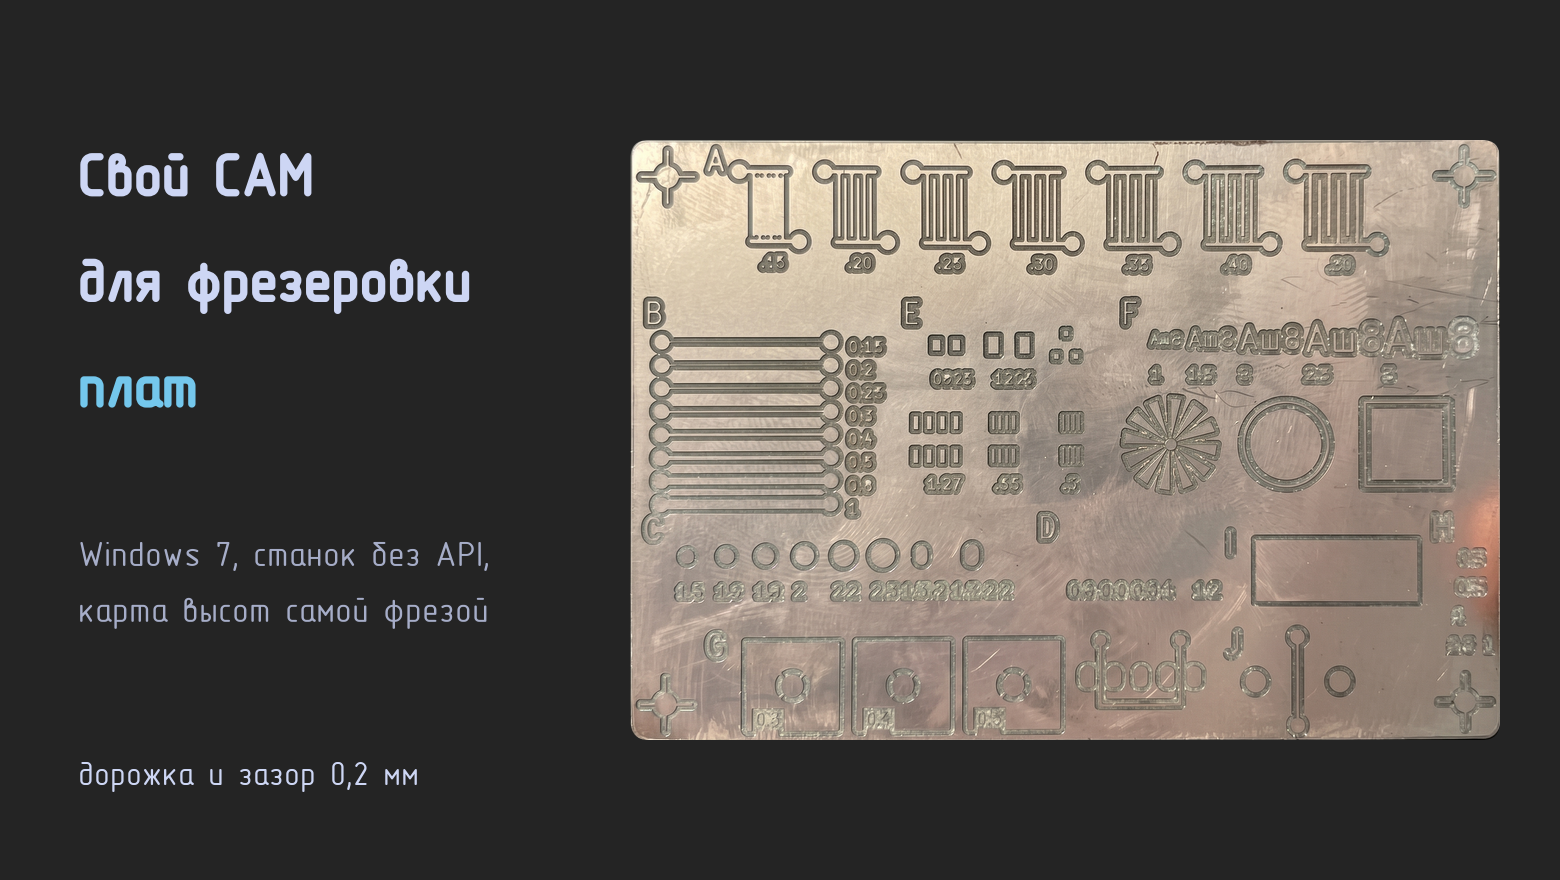
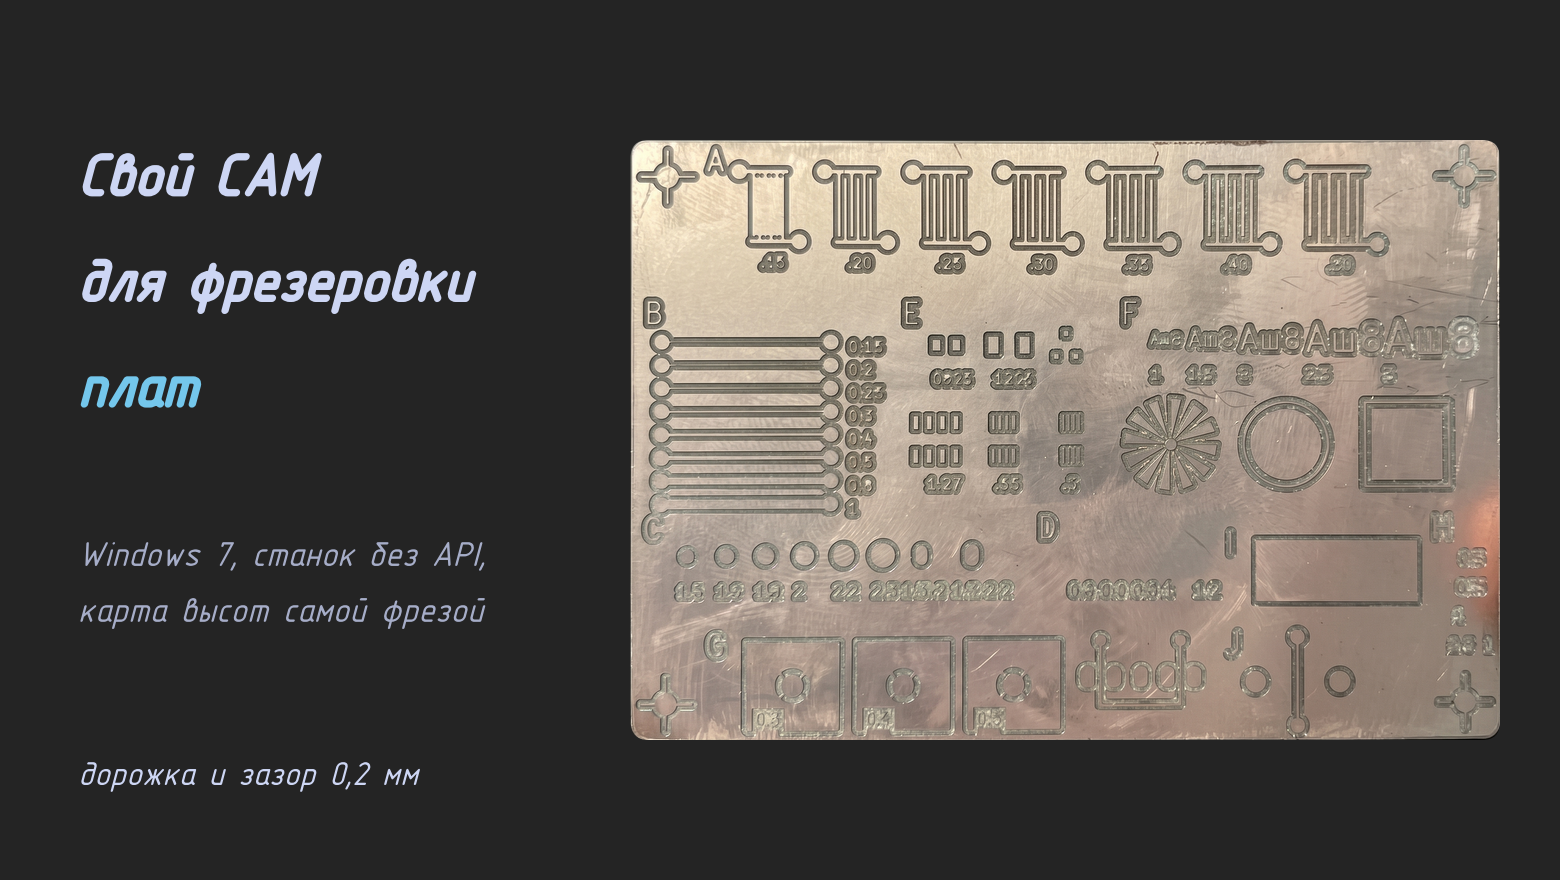
Статья: наклонный шрифт на рисунках, 15° по ГОСТ 2.304

diff --git a/docs/article/figures.py b/docs/article/figures.py
@@ -32,6 +32,8 @@ from matplotlib import font_manager, rcParams
 from matplotlib import patheffects
 from matplotlib.colors import LinearSegmentedColormap
 from matplotlib.patches import FancyBboxPatch
+from matplotlib.text import Text
+from matplotlib.transforms import Affine2D
 
 HERE = Path(__file__).resolve().parent
 OUT = HERE / "img"
@@ -105,6 +107,30 @@ def bold(color: str, width: float = 1.0):
     return [patheffects.withStroke(linewidth=width, foreground=color)]
 
 
+class Slanted(patheffects.AbstractPathEffect):
+    """Draw a text effect with its glyphs leaned forward: GOST Type BU has no italic face."""
+
+    def __init__(self, inner, deg: float):
+        super().__init__()
+        self.inner, self.deg = inner, deg
+
+    def draw_path(self, renderer, gc, tpath, affine, rgbFace=None):
+        self.inner.draw_path(renderer, gc, tpath, Affine2D().skew_deg(self.deg, 0) + affine, rgbFace)
+
+
+# ГОСТ 2.304: the slanted type leans at 75 degrees to the line.
+SLANT = 15
+
+
+def slant(fig):
+    """Lean every text of the figure; lines and pictures stay upright."""
+    for t in fig.findobj(Text):
+        if t.get_text() == "●":
+            continue
+        effects = t.get_path_effects() or [patheffects.Normal()]
+        t.set_path_effects([Slanted(e, SLANT) for e in effects])
+
+
 def card(height: float, title: str, subtitle: str, legend=()):
     fig = plt.figure(figsize=(W, height), facecolor=C["card"])
     top = 1 - 0.42 / height
@@ -144,6 +170,7 @@ def bare(ax):
 
 def save(fig, name: str):
     OUT.mkdir(exist_ok=True)
+    slant(fig)
     fig.savefig(OUT / name, facecolor=C["card"])
     plt.close(fig)
     print(f"  {name}")
@@ -407,6 +434,7 @@ def fig_cover():
              color=C["muted"], va="top", linespacing=1.45)
     fig.text(0.05, 0.1, "дорожка и зазор 0,2 мм", fontsize=12, color=C["ink"], va="bottom")
     OUT.mkdir(exist_ok=True)
+    slant(fig)
     fig.savefig(OUT / "cover.png", dpi=200, facecolor=C["card"])
     plt.close(fig)
     print("  cover.png")
